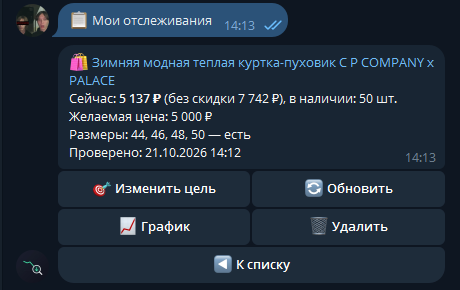
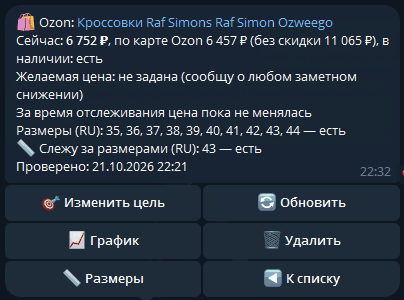
README: гифки и новые скриншоты; короткие размеры Ozon

diff --git a/app/formatting.py b/app/formatting.py
@@ -63,7 +63,7 @@ def product_card(info: ProductInfo) -> str:
         stock = "есть" if info.in_stock else "нет в наличии"
         lines.append(f"Цена: <b>{format_price(info.price)}</b>"
                      f"{card_price_text(info.card_price, info.source)}, в наличии: {stock}")
-        lines.append(f"Размеры: {sizes_line(size_dicts(info))}")
+        lines.append(sizes_text(size_dicts(info)))
     elif info.has_sizes:
         for s in info.sizes:
             if s.quantity is not None:
@@ -179,23 +179,58 @@ def size_dicts(info: ProductInfo) -> list[dict]:
     return [{"name": s.name, "price": s.price, "quantity": s.quantity} for s in info.sizes]
 
 
+def size_labels(names) -> tuple[str, dict[str, str]]:
+    """Короткие подписи размеров для показа (в базе остаются полные названия).
+    Ozon пишет '36 RU / EU37' — показываем '36', а сетку '(RU)' — один раз
+    в заголовке. Размеры WB ('M', '42-44') не меняются.
+    Возвращает (' (RU)' или '', {полное название: подпись})."""
+    names = list(names)
+    base = {n: n.split(" / ")[0].strip() for n in names}
+    if names and all(b.endswith(" RU") for b in base.values()):
+        return " (RU)", {n: b.removesuffix(" RU") for n, b in base.items()}
+    return "", base
+
+
+def sizes_list(names) -> str:
+    """'Размеры (RU): 36, 43' — для подтверждений; пусто — 'Размер: любой'."""
+    names = list(names)
+    if not names:
+        return "Размер: любой"
+    grid, labels = size_labels(names)
+    return f"Размеры{grid}: {esc(', '.join(labels[n] for n in names))}"
+
+
 def chosen_sizes_line(chosen: tuple[str, ...] | list[str], sizes: list[dict]) -> str:
     """'36 — есть, 38 — нет' — выбранные размеры и их наличие на последней проверке."""
     known = {s.get("name"): size_available(s) for s in sizes}
+    _, labels = size_labels(chosen)
     parts = []
     for name in chosen:
         status = "есть" if known.get(name) else ("нет" if name in known else "нет в списке")
-        parts.append(f"{esc(name)} — {status}")
+        parts.append(f"{esc(labels[name])} — {status}")
     return ", ".join(parts)
 
 
 def sizes_prompt(name: str, chosen: list[str] | tuple[str, ...]) -> str:
     """Текст над кнопками выбора размеров."""
-    picked = ", ".join(esc(n) for n in chosen) if chosen else "любой"
+    if chosen:
+        grid, labels = size_labels(chosen)
+        picked = f"Выбрано{grid}: " + ", ".join(esc(labels[n]) for n in chosen)
+    else:
+        picked = "Выбрано: ничего — слежу за любым размером"
     return (f"📏 <b>{esc(name[:60])}</b>\n"
             "За какими размерами следить? Нажимайте на размеры, чтобы отметить ✅.\n"
             "Сообщу, когда отмеченный размер появится или закончится.\n\n"
-            f"Выбрано: {picked}")
+            f"{picked}")
+
+
+def sizes_text(sizes: list[dict]) -> str | None:
+    """'Размеры (RU): 35, 36 — есть; 44 — нет'. Без размеров — None."""
+    body = sizes_line(sizes)
+    if body is None:
+        return None
+    grid, _ = size_labels(s["name"] for s in sizes if s.get("name"))
+    return f"Размеры{grid}: {body}"
 
 
 def sizes_line(sizes: list[dict]) -> str | None:
@@ -203,8 +238,9 @@ def sizes_line(sizes: list[dict]) -> str | None:
     named = [s for s in sizes if s.get("name")]
     if not named:
         return None
-    have = [esc(s["name"]) for s in named if size_available(s)]
-    missing = [esc(s["name"]) for s in named if not size_available(s)]
+    _, labels = size_labels(s["name"] for s in named)
+    have = [esc(labels[s["name"]]) for s in named if size_available(s)]
+    missing = [esc(labels[s["name"]]) for s in named if not size_available(s)]
     parts = []
     if have:
         parts.append(f"{', '.join(have)} — есть")
@@ -228,13 +264,18 @@ def product_summary_text(tracking: Tracking, summary: ProductSummary, checked_lo
                  if tracking.target_price else
                  "Желаемая цена: не задана (сообщу о любом заметном снижении)")
     if summary.checks > 1 and summary.min_price is not None:
-        lines.append(f"За время отслеживания: мин {format_price(summary.min_price)}, "
-                     f"макс {format_price(summary.max_price)}")
-    sizes = sizes_line(summary.sizes)
+        if summary.min_price == summary.max_price:
+            lines.append("За время отслеживания цена пока не менялась")
+        else:
+            lines.append(f"За время отслеживания: мин {format_price(summary.min_price)}, "
+                         f"макс {format_price(summary.max_price)}")
+    sizes = sizes_text(summary.sizes)
     if sizes:
-        lines.append(f"Размеры: {sizes}")
+        lines.append(sizes)
     if tracking.sizes:
-        lines.append(f"📏 Слежу за размерами: {chosen_sizes_line(tracking.sizes, summary.sizes)}")
+        grid, _ = size_labels(tracking.sizes)
+        lines.append(f"📏 Слежу за размерами{grid}: "
+                     f"{chosen_sizes_line(tracking.sizes, summary.sizes)}")
     elif sizes:
         lines.append("📏 Слежу за любым размером — выбрать нужные: кнопка «📏 Размеры»")
     lines.append(f"Проверено: {checked_local}")

diff --git a/tests/test_formatting.py b/tests/test_formatting.py
@@ -2,10 +2,11 @@
 import pytest
 
 from app.db import PricePoint, Tracking
-from app.db import ItemRow
+from app.db import ItemRow, ProductSummary
 from app.formatting import (button_text, chosen_sizes_line, group_summary_text, ordered,
-                            parse_rubles, product_card, short, sizes_prompt, stock_text,
-                            tracking_line, trackings_text)
+                            parse_rubles, product_card, short, size_labels, sizes_list,
+                            sizes_prompt, sizes_text, stock_text, tracking_line,
+                            trackings_text)
 from app.sources.base import ProductInfo, SizeInfo
 
 
@@ -159,7 +160,7 @@ def test_chosen_sizes_line():
     sizes = [{"name": "S", "price": 100, "quantity": None},
              {"name": "M", "price": None, "quantity": 0}]
     assert chosen_sizes_line(("S", "M", "XL"), sizes) == "S — есть, M — нет, XL — нет в списке"
-    assert "Выбрано: любой" in sizes_prompt("Куртка", [])
+    assert "слежу за любым размером" in sizes_prompt("Куртка", [])
     assert "Выбрано: S, M" in sizes_prompt("Куртка", ["S", "M"])
 
 
@@ -170,3 +171,26 @@ def test_ozon_card_with_sizes():
     card = product_card(info)
     assert "Цена: <b>6 752 ₽</b>, по карте Ozon 6 457 ₽" in card   # обычная цена, не из размеров
     assert "Размеры: 36 — есть; 44 — нет" in card
+
+
+def test_ozon_size_labels():
+    names = ["35 RU / EU36", "36 RU / EU37", "44 RU / EU45"]
+    assert size_labels(names) == (" (RU)", {"35 RU / EU36": "35", "36 RU / EU37": "36",
+                                            "44 RU / EU45": "44"})
+    assert size_labels(["M", "42-44"]) == ("", {"M": "M", "42-44": "42-44"})   # WB как есть
+    sizes = [{"name": n, "price": 100, "quantity": -1} for n in names]
+    sizes[2]["price"] = None
+    assert sizes_text(sizes) == "Размеры (RU): 35, 36 — есть; 44 — нет"
+    assert sizes_list(["36 RU / EU37", "43 RU / EU44"]) == "Размеры (RU): 36, 43"
+    assert "Выбрано (RU): 36" in sizes_prompt("Кроссовки", ["36 RU / EU37"])
+
+
+def test_price_not_changed_line():
+    t = Tracking(id=1, user_id=111, kind="product", source="ozon", target="1", title="К",
+                 target_price=None, created_at="x", sizes=("43 RU / EU44",))
+    summary = ProductSummary("К", "u", 675200, None, -1,
+                             [{"name": "43 RU / EU44", "price": 645700, "quantity": -1}],
+                             "x", 675200, 675200, 2)
+    text = product_summary_text(t, summary, "21.10.2026 22:11")
+    assert "цена пока не менялась" in text
+    assert "📏 Слежу за размерами (RU): 43 — есть" in text

diff --git a/app/handlers.py b/app/handlers.py
@@ -19,7 +19,8 @@ from .config import Config
 from .db import Database
 from .excel import build_workbook, export_filename, to_local
 from .formatting import (esc, group_summary_text, parse_rubles, product_card,
-                         product_summary_text, products_preview, sizes_prompt, trackings_text)
+                         product_summary_text, products_preview, sizes_list, sizes_prompt,
+                         trackings_text)
 from .keyboards import (BTN_CANCEL, BTN_LIST, BTN_PRODUCT, BTN_SEARCH, BTN_SELLER, BTN_SKIP,
                         CHART_PREFIX, DELETE_PREFIX, MARKET_BUTTONS, market_kb, EXPORT_PREFIX, LIST_CALLBACK, NO_TARGET_PREFIX,
                         RECHECK_PREFIX, TARGET_PREFIX, VIEW_PREFIX, cancel_kb, export_kb,
@@ -491,9 +492,8 @@ async def pick_size(callback: CallbackQuery, state: FSMContext) -> None:
 async def sizes_done(callback: CallbackQuery, state: FSMContext) -> None:
     data = await state.get_data()
     await callback.answer()
-    picked = ", ".join(esc(n) for n in data["chosen"]) if data["chosen"] else "любой"
     # Кнопки убираем: выбор сделан, дальше — вопрос о цене
-    await edit(callback.message, f"📏 Размеры: <b>{picked}</b>", None)
+    await edit(callback.message, f"📏 {sizes_list(data['chosen'])}", None)
     await ask_price(callback.message, state)
 
 
@@ -529,7 +529,7 @@ async def get_product_price(message: Message, state: FSMContext, db: Database) -
         await message.answer("Этот товар уже отслеживается.", reply_markup=main_kb)
         return
     goal = f"\nЖелаемая цена: {format_price(target_price)}" if target_price else ""
-    sizes = (f"\nРазмеры: {esc(', '.join(chosen))} — сообщу, когда появятся или закончатся"
+    sizes = (f"\n{sizes_list(chosen)} — сообщу, когда появятся или закончатся"
              if chosen else "")
     await message.answer(f"✅ Слежу за товаром «{esc(data['title'][:60])}»{goal}{sizes}",
                          reply_markup=main_kb)

diff --git a/app/keyboards.py b/app/keyboards.py
@@ -3,7 +3,7 @@ from aiogram.types import (InlineKeyboardButton, InlineKeyboardMarkup,
                            KeyboardButton, ReplyKeyboardMarkup)
 
 from .db import Tracking
-from .formatting import button_text, ordered
+from .formatting import button_text, ordered, size_labels
 
 # Тексты кнопок — константы: по ним же обработчики узнают нажатия
 BTN_PRODUCT = "🛍 Товар"
@@ -72,15 +72,18 @@ def product_kb(tracking_id: int, has_sizes: bool = False) -> InlineKeyboardMarku
 
 def sizes_kb(names: list[str], chosen: list[str] | tuple[str, ...],
              tracking_id: int | None = None) -> InlineKeyboardMarkup:
-    """Кнопки-переключатели размеров: ✅ — отмечен. По 3 в ряд.
+    """Кнопки-переключатели размеров: ✅ — отмечен. Короткие подписи — по 4 в ряд,
+    длинные — по 3.
     tracking_id=None — выбор при добавлении товара (товара в базе ещё нет).
     В callback_data — номер размера в списке: название может не влезть в 64 байта."""
+    _, labels = size_labels(names)
     buttons = []
     for i, name in enumerate(names):
         mark = "✅" if name in chosen else "◻"
         data = f"{PICK_PREFIX}{i}" if tracking_id is None else f"{SIZE_PREFIX}{tracking_id}:{i}"
-        buttons.append(InlineKeyboardButton(text=f"{mark} {name}", callback_data=data))
-    rows = [buttons[i:i + 3] for i in range(0, len(buttons), 3)]
+        buttons.append(InlineKeyboardButton(text=f"{mark} {labels[name]}", callback_data=data))
+    per_row = 4 if all(len(label) <= 6 for label in labels.values()) else 3
+    rows = [buttons[i:i + per_row] for i in range(0, len(buttons), per_row)]
     if tracking_id is None:
         rows.append([InlineKeyboardButton(text="✔ Готово", callback_data=PICK_DONE)])
     else:

diff --git a/app/checker.py b/app/checker.py
@@ -22,7 +22,7 @@ from dataclasses import dataclass
 from typing import Awaitable, Callable
 
 from .db import Database, PricePoint, Tracking
-from .formatting import esc
+from .formatting import esc, size_labels
 from .sources.base import (SOURCE_NAMES, BlockedError, ProductInfo, SourceError, format_price,
                            size_available)
 
@@ -122,12 +122,16 @@ def change_notes(tracking: Tracking, changes: list[Change]) -> list[str]:
             lines.append("❌ Товар закончился")
         elif c.kind == "back":
             lines.append(f"✅ Снова в наличии: <b>{format_price(p.price)}</b>")
-        elif c.kind == "sizes_back":
-            word = "Появился размер" if len(c.sizes) == 1 else "Появились размеры"
-            lines.append(f"✅ {word}: <b>{esc(', '.join(c.sizes))}</b>")
-        elif c.kind == "sizes_out":
-            word = "Закончился размер" if len(c.sizes) == 1 else "Закончились размеры"
-            lines.append(f"❌ {word}: {esc(', '.join(c.sizes))}")
+        elif c.kind in ("sizes_back", "sizes_out"):
+            grid, labels = size_labels(c.sizes)
+            names = esc(", ".join(labels[n] for n in c.sizes))
+            one = len(c.sizes) == 1
+            if c.kind == "sizes_back":
+                word = "Появился размер" if one else "Появились размеры"
+                lines.append(f"✅ {word}{grid}: <b>{names}</b>")
+            else:
+                word = "Закончился размер" if one else "Закончились размеры"
+                lines.append(f"❌ {word}{grid}: {names}")
     return lines
 
 

diff --git a/tests/test_checker.py b/tests/test_checker.py
@@ -3,7 +3,7 @@ import asyncio
 
 import pytest
 
-from app.checker import (Checker, change_notes, find_changes, product_message,
+from app.checker import (Change, Checker, change_notes, find_changes, product_message,
                          summary_message)
 from app.db import Database, PricePoint, Tracking
 from app.sources.base import BlockedError, ProductInfo, SizeInfo, SourceError
@@ -97,6 +97,8 @@ def test_size_notes():
     t = tracking()
     changes = find_changes(sized_point("S"), sized("S", "M", "L"), 5, sizes=("M", "L"))
     assert change_notes(t, changes) == ["✅ Появились размеры: <b>M, L</b>"]
+    ozon = Change("sizes_out", sized(), sizes=("38 RU / EU39",))
+    assert change_notes(t, [ozon]) == ["❌ Закончился размер (RU): 38"]
 
 
 # --- тексты ---

diff --git a/README.md b/README.md
@@ -13,18 +13,35 @@ APScheduler, openpyxl, matplotlib, pytest + GitHub Actions.
 
 <table>
   <tr>
+    <th>Добавление товара с выбором размеров</th>
+    <th>Список, сводка магазина, Excel, размеры</th>
+  </tr>
+  <tr>
+    <td><img src="docs/screenshots/add_product.gif" width="380" alt="Добавление товара Ozon с выбором размеров"></td>
+    <td><img src="docs/screenshots/list_and_card.gif" width="380" alt="Список отслеживаний, карточка магазина, выгрузка в Excel и выбор размеров"></td>
+  </tr>
+</table>
+
+<table>
+  <tr>
     <th>Меню</th>
-    <th>Товар с размерами</th>
     <th>Мои отслеживания</th>
     <th>Карточка товара</th>
+  </tr>
+  <tr>
+    <td><img src="docs/screenshots/1_menu.png" width="260" alt="Меню бота"></td>
+    <td><img src="docs/screenshots/3_list.png" width="260" alt="Список отслеживаний по разделам"></td>
+    <td><img src="docs/screenshots/3_card.png" width="260" alt="Карточка товара с размерами"></td>
+  </tr>
+  <tr>
+    <th>Выбор размеров</th>
+    <th>Сводка магазина</th>
     <th>Топ поиска</th>
   </tr>
   <tr>
-    <td><img src="docs/screenshots/1_menu.png" width="200" alt="Меню бота"></td>
-    <td><img src="docs/screenshots/2_product.png" width="200" alt="Добавление товара"></td>
-    <td><img src="docs/screenshots/3_list.png" width="200" alt="Список отслеживаний"></td>
-    <td><img src="docs/screenshots/3_card.png" width="200" alt="Карточка товара"></td>
-    <td><img src="docs/screenshots/4_search.png" width="200" alt="Отслеживание поиска"></td>
+    <td><img src="docs/screenshots/2_product.png" width="260" alt="Выбор размеров кнопками"></td>
+    <td><img src="docs/screenshots/9_seller_card.png" width="260" alt="Сводка магазина Ozon"></td>
+    <td><img src="docs/screenshots/4_search.png" width="260" alt="Отслеживание поиска"></td>
   </tr>
 </table>
 
